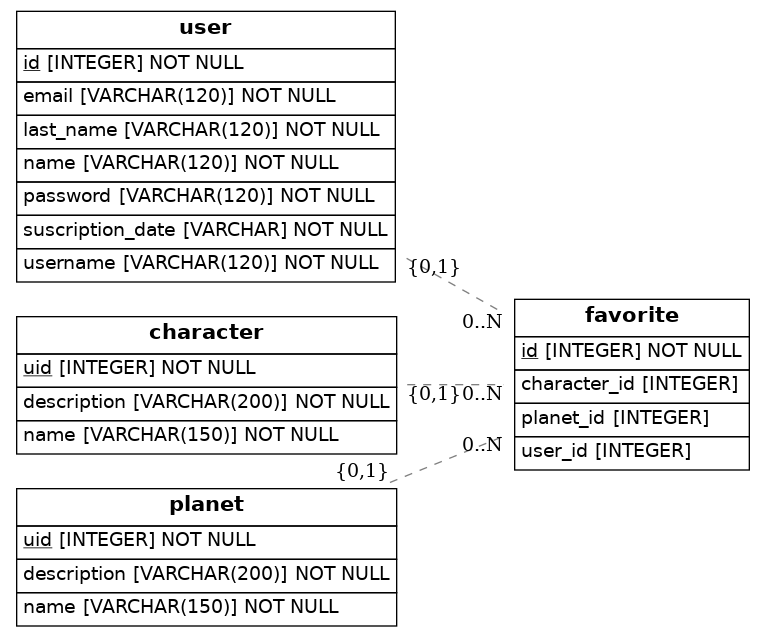
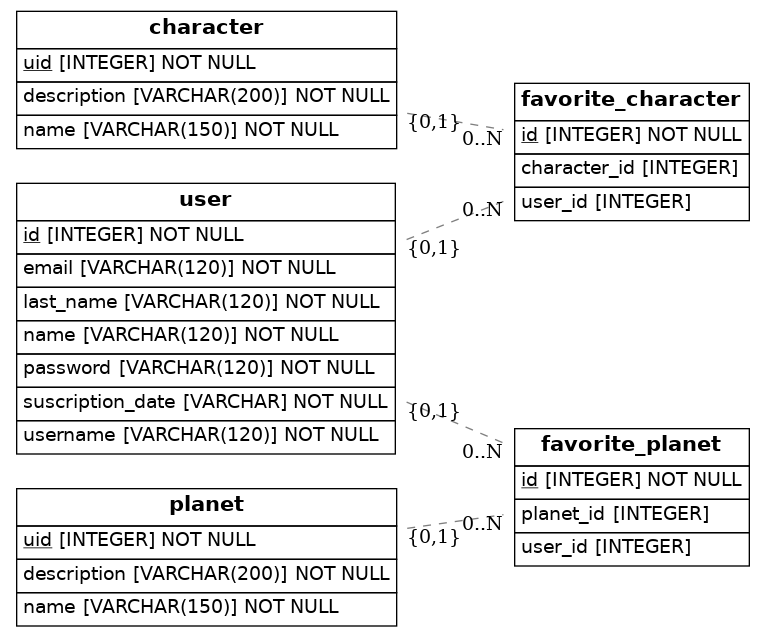
arreglo tabla favorite

diff --git a/src/models.py b/src/models.py
@@ -33,17 +33,23 @@ class Planet(Base):
     name = Column(String(150), nullable=False)
     description = Column(String(200), nullable=False)
 
-class Favorite(Base):
-    __tablename__ = 'favorite'
+class Favorite_character(Base):
+    __tablename__ = 'favorite_character'
 
     id = Column(Integer, primary_key=True)
     user_id = Column(Integer, ForeignKey('user.id'))
     character_id = Column(Integer, ForeignKey('character.uid'))
-    planet_id = Column(Integer, ForeignKey('planet.uid'))
     user = relationship(User)
     character = relationship(Character)
-    planet = relationship(Planet)
 
+class Favorite_planet(Base):
+    __tablename__ = 'favorite_planet'
+
+    id = Column(Integer, primary_key=True)
+    user_id = Column(Integer, ForeignKey('user.id'))
+    planet_id = Column(Integer, ForeignKey('planet.uid'))
+    user = relationship(User)
+    planet = relationship(Planet)
 
     def to_dict(self):
         return {}
